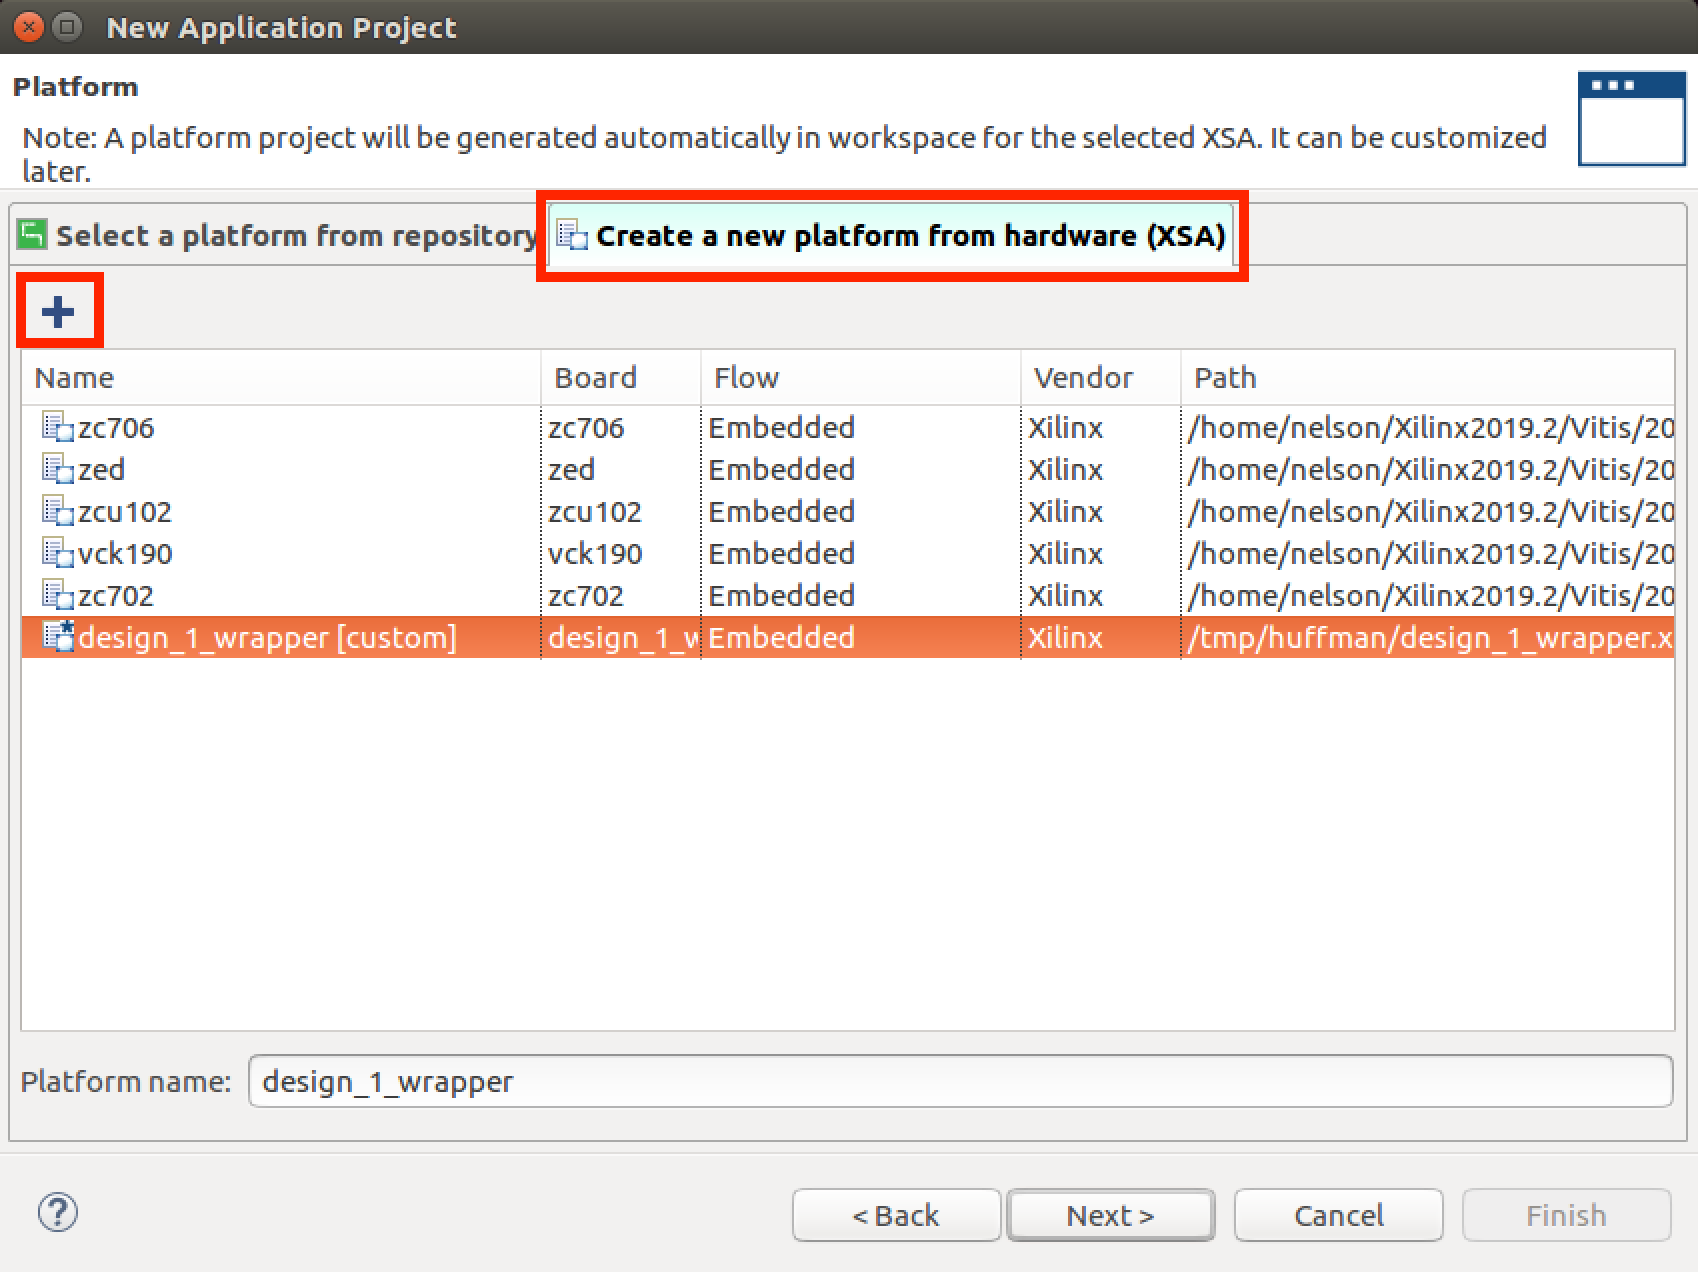
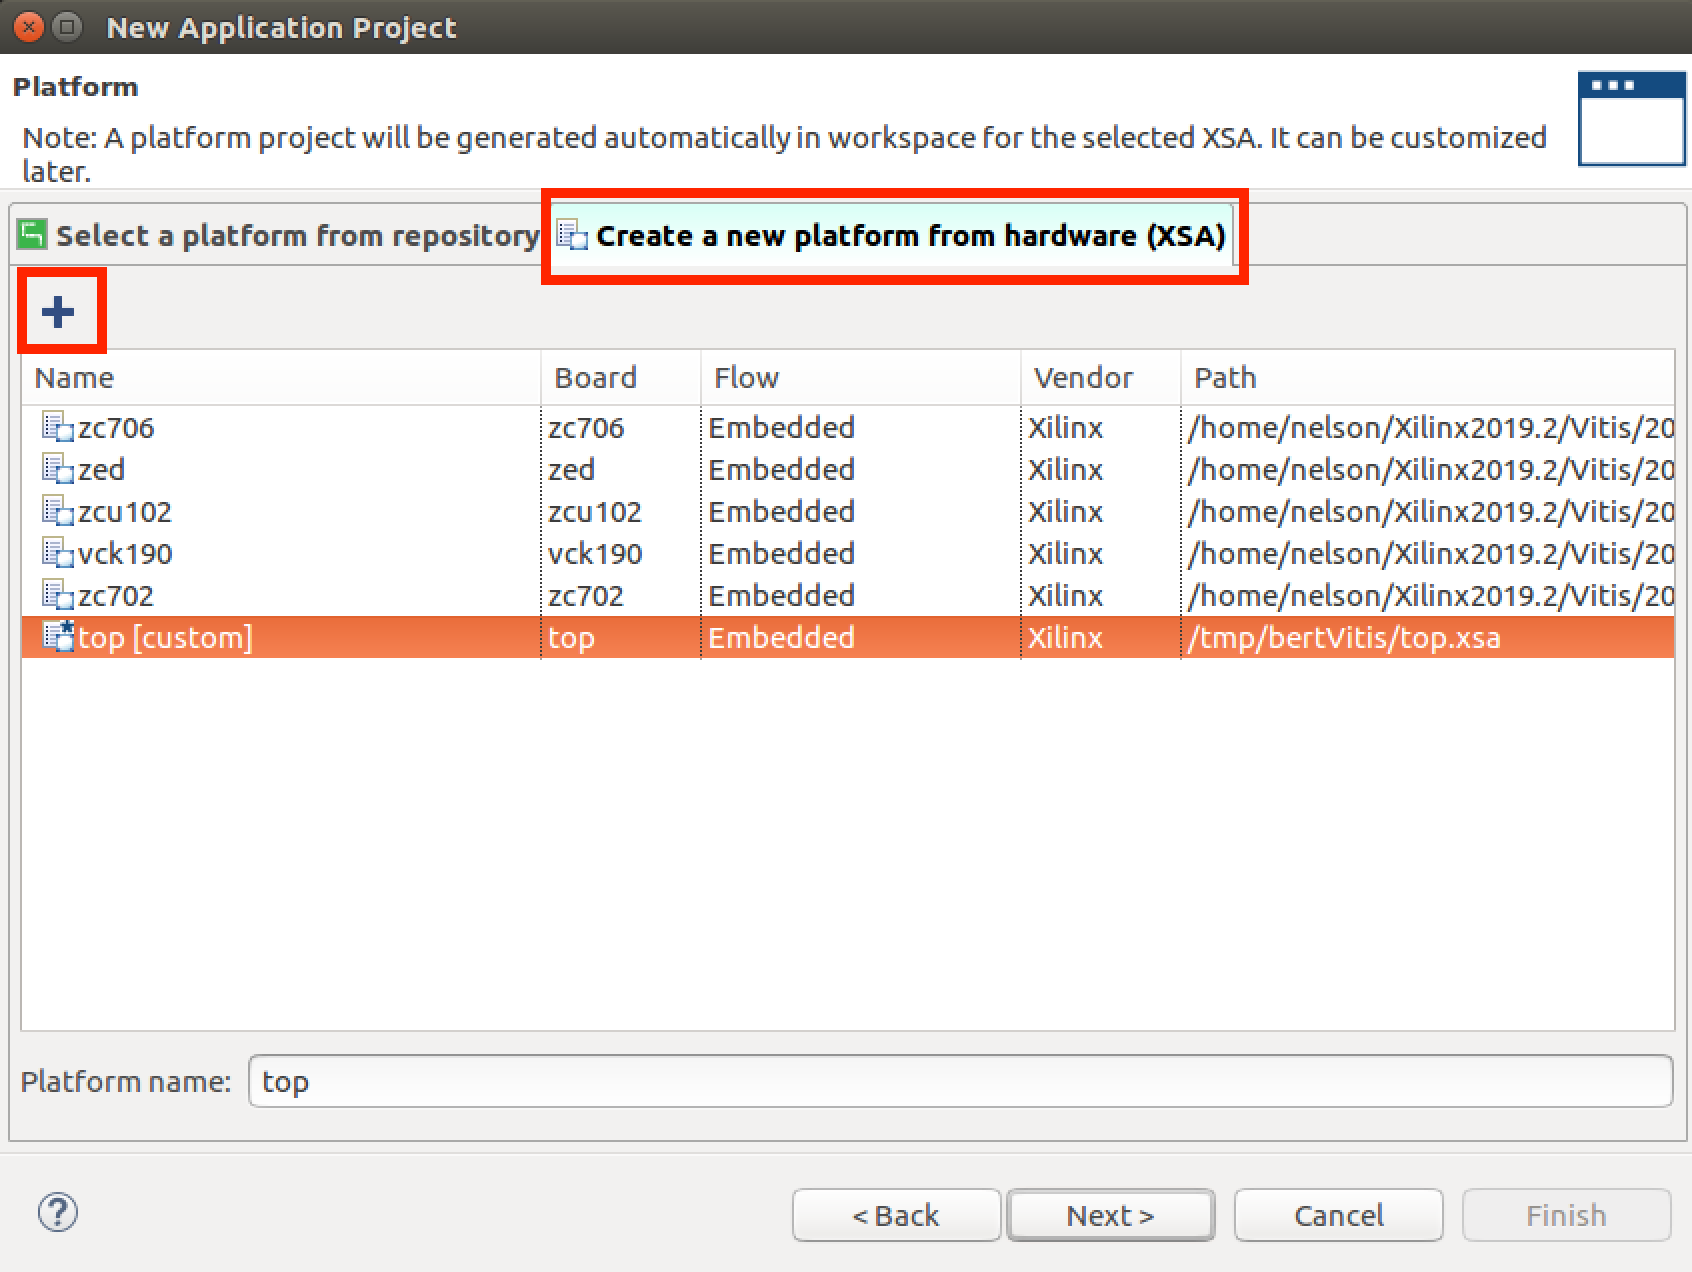
Fix docs for sdk and vitis scripts

diff --git a/docs/tutorials/huffman/copyappfiles_sdk.py b/docs/tutorials/huffman/copyappfiles_sdk.py
@@ -19,7 +19,7 @@ if __name__ == "__main__":
     # Check that all directories exist
     bertSrcDir = bertDir / "embedded" / "src" / "bert"
     assert os.path.isdir(str(bertSrcDir))
-    bertSWHuffmanDir = bertDir / "docs" / "tutorials" / "huffman" / "sw_huffman"
+    bertSWHuffmanDir = bertDir / "docs" / "tutorials" / "huffman" / "sw_huffman_sdk" 
     assert os.path.isdir(str(bertSWHuffmanDir))
 
     assert os.path.isdir(str(workDir)) 

diff --git a/docs/tutorials/sdksetup.md b/docs/tutorials/sdksetup.md
@@ -3,12 +3,13 @@ The typical way of getting a design into the SDK/Vitis so you can test it is to 
 
 However, you are not doing things that way for this tutorial.  As instructed in the Huffman Tutorial page, you previously copied the files generated by the above export hardware step from `.../bert/docs/tutorials/huffman/hw_huffman_TOOL` to save time.  So, let's get on with using those in the SDK/Vitis to manually create a project for the provided design.
 
-## 1. Launch SDK/Vitis
-Open the SDK and establish a new workspace in a directory of your choosing (if you already have a workspace open (you have previously run SDK/Vitis), choose `File->Switch Workspace->Other`).  For this tutorial, use `WORK/TOOLWorkspace` as your workspace (where `WORK` is the directory you copied the above files into in a previous step).
+## SDK Instructions
 
-## 2. Create application project alongside Platform and BSP
+### 1. Launch SDK
+Open the SDK and establish a new workspace in a directory of your choosing (if you already have a workspace open (you have previously run SDK/Vitis), choose `File->Switch Workspace->Other`).  For this tutorial, use `WORK/SDKWorkspace` as your workspace (where `WORK` is the directory you copied the above files into in a previous step).
 
-### SDK Instructions for Creating Application Project
+### 2. Create application project alongside Platform and BSP
+
 Create a new application by clicking the "Create Application Project" link as shown below.
 ![Example of new workspace](../images/newworkspace.png)
 
@@ -26,7 +27,7 @@ Now click finish again and you are brought back to the Project Explorer.  At thi
 - One will be `huffman_demo` which is the software application for the project.
 - One will be `huffman_demo_bsp` and is the board support package.
 
-### Vitis Instructions for Creating Application Project
+## Vitis Instructions
 First you need to create a hardware platform.  Create one by clicking "Create 
 Create a new application by clicking the "Create Application Project" link as shown below.
 ![Example of new workspace](../images/newworkspace_vitis.png)
@@ -35,12 +36,12 @@ Give the project a name - for this demo use `huffman_demo`. Next, check to make 
 
 ![Example of new application project](../images/newproject_vitis.png)
 
-Then, select 'Create a new platform from hardware (XSA)', then the '+' button, then browse to the .xsa file in your working directory (`WORK`).  Then select the newly added item to the list of platforms ('design_1_wrapper') and click Next.
+Then, select 'Create a new platform from hardware (XSA)', then the '+' button, then browse to the .xsa file in your working directory (`WORK`).  Then select the newly added item to the list of platforms ('top') and click Next.
 
 ![Example of new application project](../images/newplatform_vitis.png)
 
 Now click Next again, select the 'Hello World' template, click Finish and you are brought back to the Project Explorer.  At this point you should have two items in the SDK left-side Project Explorer pane:
-- One will be `design_1_wrapper` and is the hardware for the project.  
+- One will be `top` and is the hardware for the project.  
 - The other will be `huffman_demo_system` which is the board support package for your project.  Inside it is `huffman_demo` which is the actual software application for the project.  
 
 At this point you can click Back to return to the main tutorial.

diff --git a/docs/embedded/bsp.md b/docs/embedded/bsp.md
@@ -20,9 +20,9 @@ Since BERT takes advantage of custom API calls, the xilfpga library source code 
 
 To help you do this, however, a script has been created which will do this copying for you (as well as copying BERT sources over).    This script can be run as:
 ```
-python3 BERT/docs/tutorials/huffman/copybspfiles.py WORK
+python3 .../bert/docs/tutorials/huffman/copybspfiles_sdk.py WORK
 ```
-where BERT is where your BERT repo lives and WORK is the directory you copied the provided files into at the start of this tutorial.
+where `.../bert` is where your BERT repo lives and WORK is the directory you copied the provided files into at the start of this tutorial.
 
 NOTE: If other bsp parameters are later changed in `system.mss` or the `Re-generate BSP Sources` button is clicked, the BSP code will be regenerated *and this modified version of xilfpga will be overwritten with the vanilla xilfpga version from the local SDK installation*, negating what you just did. Thus, it is best to completely configure the rest of the BSP before replacing the custom xilfpga library source code. 
 
@@ -47,7 +47,7 @@ Then click OK and you will have configured your BSP.
 
 ### Over-write xilfpga API Library Source Code in BSP
 Since BERT takes advantage of custom API calls, the xilfpga library source code must be overwritten in the BSP with modified versions.  These are found at `.../bert/embedded/libsrc/xilfpga_v5_1/src` and are to be copied to 
-`WORK/design_1_wrapper/psu_cortexa53_0/standalone_domain/bsp/psu_cortexa53_0/libsrc/xilfpga_v5_1/src` (where WORK is the directory you set up at the start of this tutorial).
+`WORK/top/psu_cortexa53_0/standalone_domain/bsp/psu_cortexa53_0/libsrc/xilfpga_v5_1/src` (where WORK is the directory you set up at the start of this tutorial).
 
 To help you do this, however, a script has been created which will do this copying for you (as well as copying BERT sources over).    This script can be run as:
 ```

diff --git a/docs/tutorials/huffman/huffman.md b/docs/tutorials/huffman/huffman.md
@@ -75,7 +75,7 @@ Now that you have an application project and BSP established, you need to assemb
 
 To copy these all into your source directory now do this:
 ```
-python3 BERT/docs/tutorials/huffman/copyappfiles_TOOL.py WORK
+python3 .../bert/docs/tutorials/huffman/copyappfiles_TOOL.py WORK
 ```
 where `TOOL` is either `sdk` or `vitis`.
 
